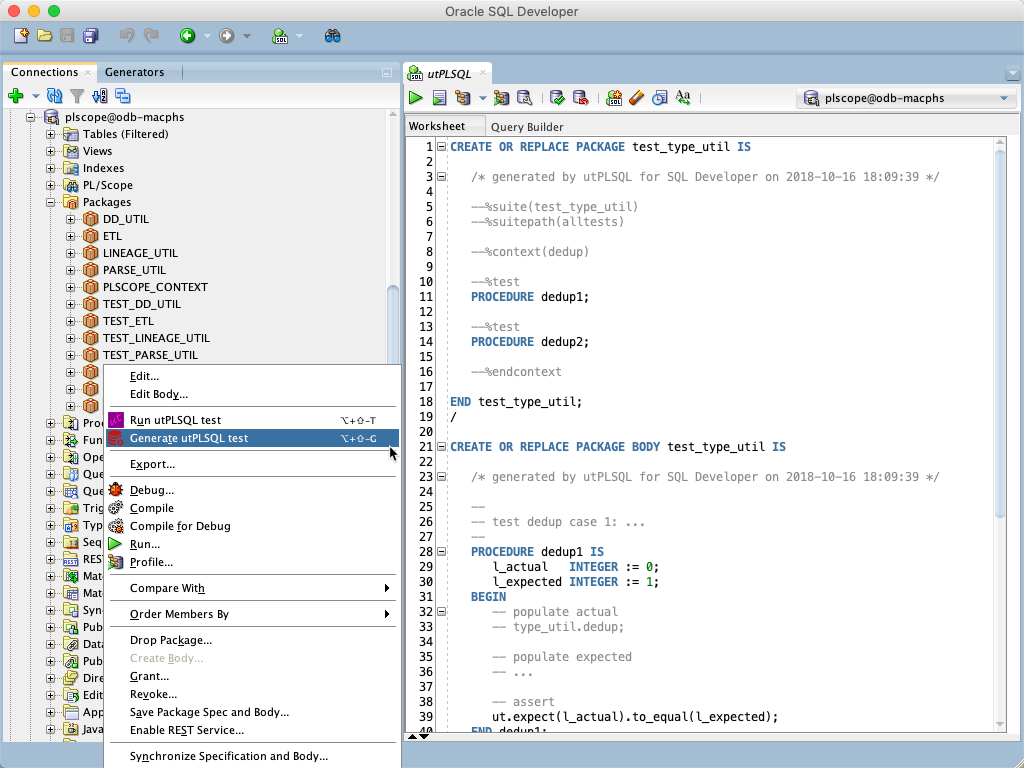
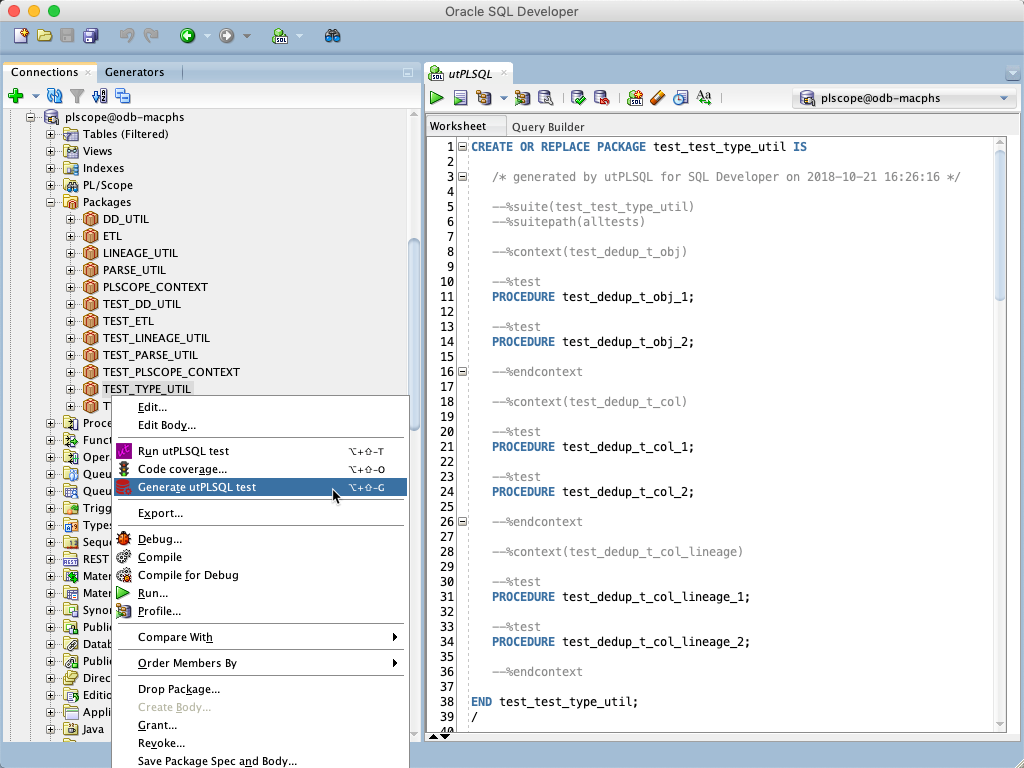
Updated readme and images for v0.6.0

diff --git a/README.md b/README.md
@@ -5,6 +5,7 @@
 utPLSQL for SQL Developer extends Oracle's SQL Developer to 
 
 * run existing utPLSQL unit tests
+* run utPLSQL code coverage reports 
 * generate new utPLSQL unit tests (skeletons)
 
 ### Run utPLSQL test
@@ -12,6 +13,21 @@ utPLSQL for SQL Developer extends Oracle's SQL Developer to
 In the Connections window, select a connection or one or more packages or package procedures to run utPLSQL tests. Or you can run utPLSQL tests directly from the PL/SQL editor. The test procedures are determined according to the cursor position in the PL/SQL editor.
 
 ![Run utPLSQL test](images/run_utplsql_test.png)
+
+### Code coverage...
+
+In the Connections window, select a connection or one or more packages for a code coverage report.
+
+In the dialog you can set some parameters. If you run code coverage for a few chosen packages or from the PL/SQL editor the objects to be included are determined according the object dependencies in the Oracle data dictionary. 
+
+![Code coverage dialog](images/code_coverage_dialog.png)
+
+Press `Run` to produce the code coverage process in the background. You may minimize or close the dialog. To abort the process, press `Cancel`. 
+
+The HTML report is shown in your default browser.
+
+![Code coverage report](images/code_coverage_report_all_files.png)
+
 ### Generate utPLSQL test
 
 #### Based on existing code
